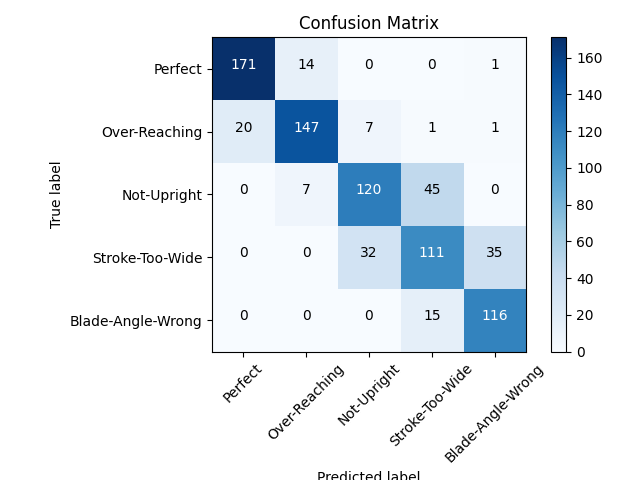
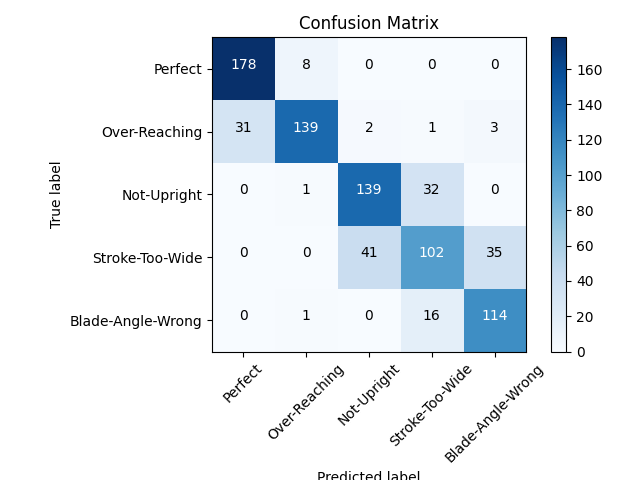
Attempting better model

diff --git a/PythonAnalyser/DataHandling.py b/PythonAnalyser/DataHandling.py
@@ -1,46 +1,71 @@
+import os.path
 import numpy as np
 import matplotlib.pyplot as plt
 from sklearn.model_selection import StratifiedKFold
 from sklearn.tree import DecisionTreeClassifier
 import itertools
 from sklearn.feature_selection import RFE
+from scipy.signal import find_peaks
 
 import AppSettings
 
+#def smooth_raw(session):
+
+
 
 def feature_extraction(session):
+	np.warnings.filterwarnings('ignore', category=np.VisibleDeprecationWarning)
 	features = None
 	labels = None
 
-	segment_size = 16  # The window size for feature extraction
-	for i in range(0, len(session.accels) - segment_size, int(segment_size / 2)):
-		accel_seg = session.accels[i:i + segment_size, :]
+	segment_size = AppSettings.get_window_size()  # The window size for feature extraction
+	for i in range(0, len(session.accels_raw) - segment_size, int(segment_size / 2)):
+		accel_seg = session.accels_raw[i:i + segment_size, :]
 		accel_vals = np.delete(accel_seg, 0, 1)
-		accel_mean = np.mean(accel_vals)
-		accel_var = np.var(accel_vals)
+		accel_mag = np.sqrt((accel_vals[:, 0] ** 2).reshape(-1, 1) +
+		                    (accel_vals[:, 1] ** 2).reshape(-1, 1) +
+		                    (accel_vals[:, 2] ** 2).reshape(-1, 1))
+		accel_mag_mean = np.mean(accel_vals)
+		accel_mag_var = np.var(accel_vals)
+		accel_mean = np.mean(accel_mag)
+		accel_var = np.var(accel_mag)
 
-		gyro_seg = session.gyros[i:i + segment_size, :]
+		gyro_seg = session.gyros_raw[i:i + segment_size, :]
 		gyro_vals = np.delete(gyro_seg, 0, 1)
-		gyro_mean = np.mean(gyro_vals)
-		gyro_var = np.var(gyro_vals)
+		gyro_mag = np.sqrt((gyro_vals[:, 0] ** 2).reshape(-1, 1) +
+		                    (gyro_vals[:, 1] ** 2).reshape(-1, 1) +
+		                    (gyro_vals[:, 2] ** 2).reshape(-1, 1))
 
-		rota_seg = session.rotas[i:i + segment_size, :]
+		gyro_mean = np.mean(gyro_mag)
+		gyro_var = np.var(gyro_mag)
+
+		rota_seg = session.rotas_raw[i:i + segment_size, :]
 		rota_vals = np.delete(rota_seg, 0, 1)
 		rota_vals = np.delete(rota_vals, 3, 1)
 		rota_vals = np.delete(rota_vals, 3, 1)
 
 		rota_xy_vals = np.delete(rota_vals,2,1)
-		rota_xy_mean = np.mean(rota_xy_vals)
-		rota_xy_var = np.var(rota_xy_vals)
+		rota_xy_mag = np.sqrt((rota_xy_vals[:, 0] ** 2).reshape(-1, 1) +
+		                   (rota_xy_vals[:, 1] ** 2).reshape(-1, 1))
+		rota_xy_mean = np.mean(rota_xy_mag)
+		rota_xy_var = np.var(rota_xy_mag)
 
 		rota_z_vals = np.delete(rota_vals, 0, 1)
 		rota_z_vals = np.delete(rota_z_vals, 0, 1)
 		rota_z_mean = np.mean(rota_z_vals)
 		rota_z_var = np.var(rota_z_vals)
 
-		feature = [accel_mean, accel_var, gyro_mean, gyro_var, rota_xy_mean, rota_xy_var,rota_z_mean,rota_z_var]
+		rota_z_sum_dif = 0.0
+		gyro_mag_sum_dif = 0.0
+		for j in range(0, segment_size - 1):
+			rota_z_sum_dif += abs(rota_z_vals[j] - rota_z_vals[j + 1])
+			gyro_mag_sum_dif += abs(gyro_mag[j] - gyro_mag[j+1])
+
+		#peaks = find_peaks(accel_mag.reshape([-1]), prominence=1)
+
+		feature = [accel_mean, accel_var,accel_mag_mean, accel_mag_var, gyro_mean, gyro_var, rota_xy_mean, rota_xy_var,rota_z_mean,rota_z_var,rota_z_sum_dif,gyro_mag_sum_dif]
 		if features is None:
-			features = np.array([feature])
+			features = np.array(list([feature]),dtype=object)
 		else:
 			features = np.append(features, [feature], axis=0)
 
@@ -64,14 +89,26 @@ def plot_extracted_features(features, prefix, i):
 			plt.gca().set_title('Var acceleration', fontsize=8)
 	if i == 2 or i == 3:
 		plt.ylabel('rad/s', fontsize=8)
-		if i == 0:
+		if i == 2:
 			plt.gca().set_title('Mean Gyroscope', fontsize=8)
 		else:
 			plt.gca().set_title('Var Gyroscope', fontsize=8)
+	if i == 4 or i == 5 or i == 6 or i==7:
+		#plt.ylabel('rad/s', fontsize=8)
+		if i == 4:
+			plt.gca().set_title('Mean Rotation Vector XY', fontsize=8)
+		elif i == 5:
+			plt.gca().set_title('Var Rotation Vector XY', fontsize=8)
+		elif i == 6:
+			plt.gca().set_title('Mean Rotation Vector Z', fontsize=8)
+		else:
+			plt.gca().set_title('Var Rotation Vector Z', fontsize=8)
 
 	plt.grid(True)
+	if not os.path.exists(AppSettings.get_image_dir() + prefix):
+		os.makedirs(AppSettings.get_image_dir() + prefix)
 	plt.savefig(AppSettings.get_image_dir() + prefix + " " + str(i + 1) + " Feature Data.png")
-	print("Save Feature " + str(i + 1) + " Data")
+	#print("Save Feature " + str(i + 1) + " Data")
 	plt.close()
 
 

diff --git a/PythonAnalyser/Session.py b/PythonAnalyser/Session.py
@@ -12,9 +12,9 @@ class Session:
         self.gyro_filename = file_prefix + "_gyro.txt"
         self.rota_filename = file_prefix + "_rota.txt"
         self.set_list_from_file()
-        self.accels = self.accels[self.accels[:,0].argsort(kind='mergesort')]
-        self.gyros = self.gyros[self.gyros[:,0].argsort(kind='mergesort')]
-        self.rotas = self.rotas[self.rotas[:,0].argsort(kind='mergesort')]
+        self.accels_raw = self.accels_raw[self.accels_raw[:, 0].argsort(kind='mergesort')]
+        self.gyros_raw = self.gyros_raw[self.gyros_raw[:, 0].argsort(kind='mergesort')]
+        self.rotas_raw = self.rotas_raw[self.rotas_raw[:, 0].argsort(kind='mergesort')]
         self.label = file_prefix_split[0].replace(AppSettings.get_model_data_dir(),"").replace(AppSettings.get_new_data_dir(),"").split("\\")[0]
         self.name = file_prefix_split[-1]
 
@@ -34,18 +34,18 @@ class Session:
     def set_list_from_file(self):
         accel_file = open(self.accel_filename, 'r')
         accel_lines = accel_file.readlines()
-        self.accels = np.empty([len(accel_lines), 4])
+        self.accels_raw = np.empty([len(accel_lines), 4])
         for i in range(len(accel_lines)):
-            self.accels[i] = self.get_list_from_file(accel_lines[i])
+            self.accels_raw[i] = self.get_list_from_file(accel_lines[i])
 
         gyro_file = open(self.gyro_filename, 'r')
         gyro_lines = gyro_file.readlines()
-        self.gyros = np.empty([len(gyro_lines), 4])
+        self.gyros_raw = np.empty([len(gyro_lines), 4])
         for i in range(len(gyro_lines)):
-            self.gyros[i] = self.get_list_from_file(gyro_lines[i])
+            self.gyros_raw[i] = self.get_list_from_file(gyro_lines[i])
 
         rota_file = open(self.rota_filename, 'r')
         rota_lines = rota_file.readlines()
-        self.rotas = np.empty([len(rota_lines), 6])
+        self.rotas_raw = np.empty([len(rota_lines), 6])
         for i in range(len(rota_lines)):
-            self.rotas[i] = self.get_list_from_file(rota_lines[i])
+            self.rotas_raw[i] = self.get_list_from_file(rota_lines[i])

diff --git a/PythonAnalyser/main.py b/PythonAnalyser/main.py
@@ -4,6 +4,8 @@ import Session as si
 import DataHandling as dh
 import AppSettings
 
+import numpy as np
+
 if __name__ == '__main__':
     clf = m.get_model()
     print("=====Test Data=====")
@@ -17,10 +19,15 @@ if __name__ == '__main__':
             names.append(session.name)
 
     for name in names:
-        label_count = [0]*len(AppSettings.get_dirs())
+        features = None
         for session in sessions:
             if session.name == name:
                 current_features, current_labels = dh.feature_extraction(session)
-                current_label_count = m.classify(clf, current_features)
-                label_count = [x + y for x, y in zip(label_count, current_label_count)]
+                if features is None:
+                    features = np.array(current_features)
+                else:
+                    features = np.append(features, current_features, axis=0)
+        for i in range(0,np.size(features,axis=1)):
+            dh.plot_extracted_features(features,name + "/Feature",i)
+        label_count = m.classify(clf, features)
         print(name + " " + str(m.classify_readable(label_count)))

diff --git a/PythonAnalyser/model.py b/PythonAnalyser/model.py
@@ -25,7 +25,7 @@ def get_model():
 				labels = np.array(current_labels)
 			else:
 				labels = np.append(labels, current_labels, axis=0)
-	features = features.reshape([-1, 8])
+	features = features.reshape([-1, 12])
 	labels = labels.reshape([-1, 1])
 	confusion_matrix, clf = dh.five_fold_cross_validation(features, labels)
 
@@ -106,4 +106,4 @@ def classify_readable(label_count):
 		total += label_count[i]
 		if label_count[i]>label_count[indexOfHighest]:
 			indexOfHighest = i
-	return "Perfect " + str(100*((float)(label_count[0]/total))) + "%, to improve " + AppSettings.get_dirs()[indexOfHighest] + " " + str(label_count)
+	return "Perfect " + str(round(100*((float)(label_count[0]/total)),2)) + "%, to improve " + AppSettings.get_dirs()[indexOfHighest] + " " + str(round(100* label_count[indexOfHighest]/total,2)) +"% " + str(label_count)

diff --git a/PythonAnalyser/AppSettings.py b/PythonAnalyser/AppSettings.py
@@ -23,3 +23,7 @@ def get_image_dir():
 
 def get_dirs():
 	return ["Perfect", "Over-Reaching", "Not-Upright", "Stroke-Too-Wide", "Blade-Angle-Wrong"]
+
+
+def get_window_size():
+	return 16
